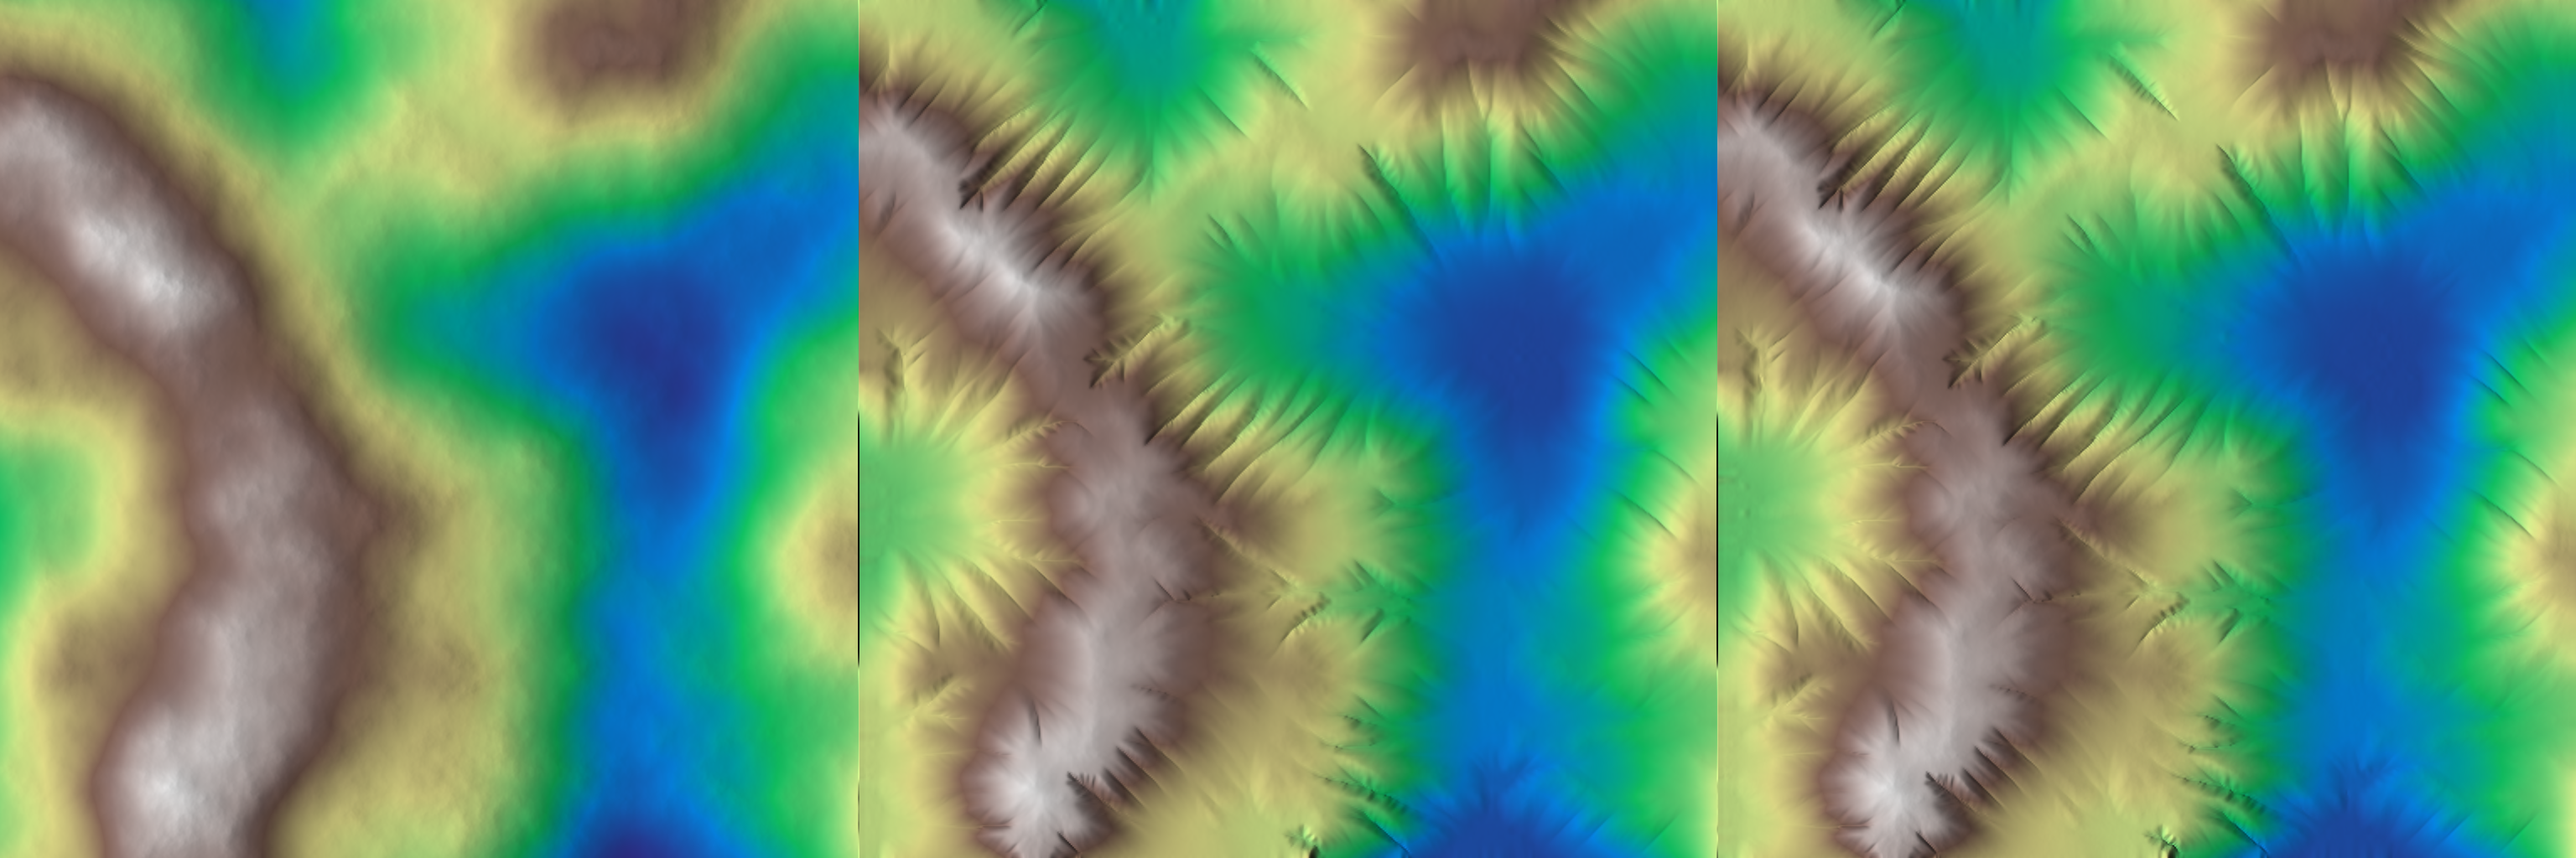
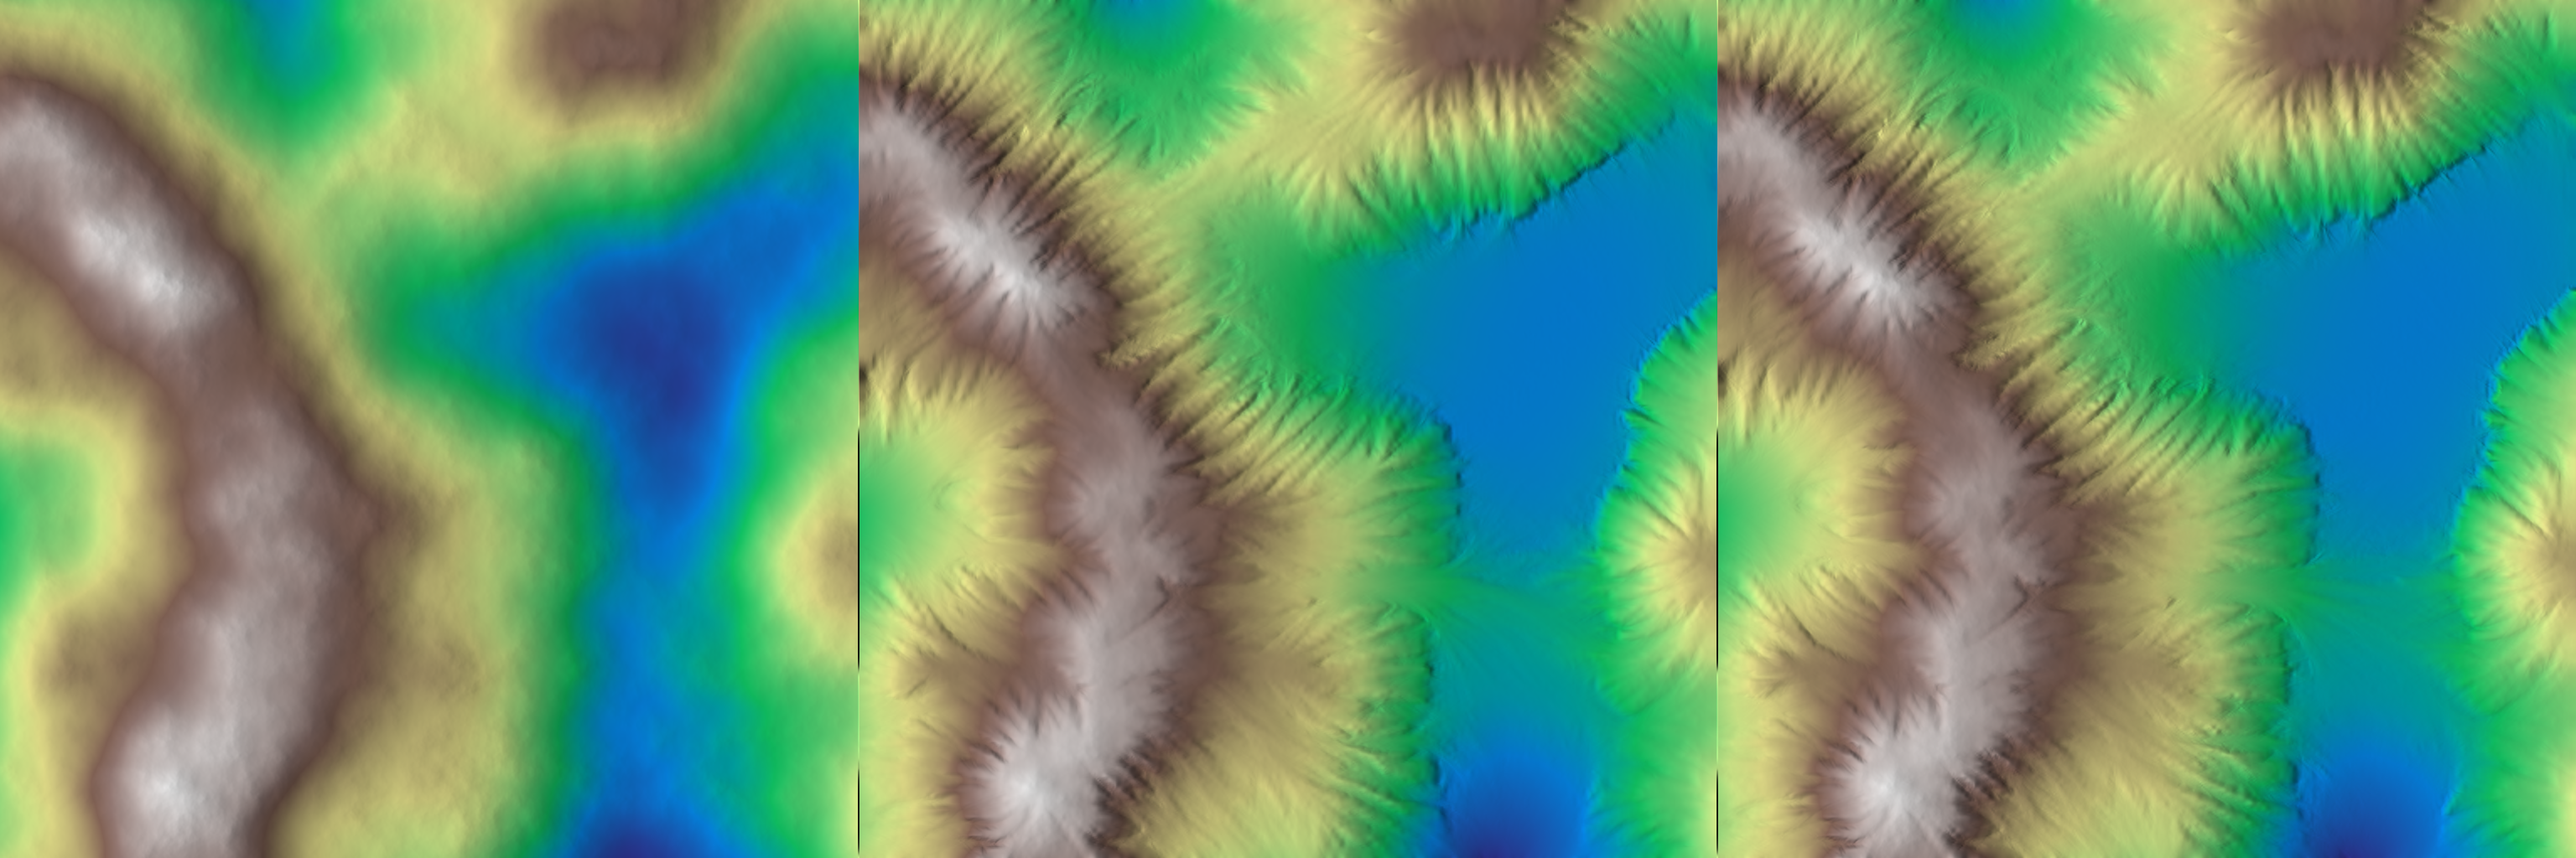
Update CLWrapper (remove block size)

diff --git a/examples/ex_downscale_transform_multi/ex_downscale_transform_multi.cpp b/examples/ex_downscale_transform_multi/ex_downscale_transform_multi.cpp
@@ -20,14 +20,9 @@ int main(void)
 
   auto lambda = [](hmap::Array &x, const int current_index)
   {
-    int iterations = (int)(60.f / (0.5f * current_index + 1));
-
-    hmap::hydraulic_schott(x,
-                           iterations, // iterations
-                           0.5f,       // 0.5 times deposition iterations
-                           0.3f,       // erosion
-                           0.5f        // deposition
-    );
+    int  nparticles = 5000;
+    uint seed = 0;
+    hmap::hydraulic_particle(x, nparticles, seed);
   };
 
   // apply the erosion to each array with different resolutions

diff --git a/examples/ex_downscale_transform/ex_downscale_transform.cpp b/examples/ex_downscale_transform/ex_downscale_transform.cpp
@@ -27,12 +27,9 @@ int main(void)
 
   auto lambda = [](hmap::Array &x)
   {
-    hmap::hydraulic_schott(x,
-                           60,   // iterations
-                           0.5f, // 0.5 times deposition iterations
-                           0.3f, // erosion
-                           0.5f  // deposition
-    );
+    int  nparticles = 5000;
+    uint seed = 0;
+    hmap::hydraulic_particle(x, nparticles, seed);
   };
 
   // apply the erosion to each array with different resolutions

diff --git a/tests/test_gpu_vs_cpu/main.cpp b/tests/test_gpu_vs_cpu/main.cpp
@@ -9,7 +9,6 @@
 #include "highmap/dbg/assert.hpp"
 #include "highmap/dbg/timer.hpp"
 
-const int block_size = 32;
 // const hmap::Vec2<int>   shape = {2048, 2048};
 // const hmap::Vec2<int>   shape = {1024, 1024};
 const hmap::Vec2<int>   shape = {256, 512};
@@ -70,8 +69,6 @@ int main(void)
 
 #ifdef ENABLE_OPENCL
   hmap::gpu::init_opencl();
-
-  clwrapper::KernelManager::get_instance().set_block_size(block_size);
 
   f.open("test_gpu_vs_cpu.csv", std::ios::out);
 

diff --git a/examples/ex_voronoise/ex_voronoise.cpp b/examples/ex_voronoise/ex_voronoise.cpp
@@ -9,8 +9,6 @@ int main(void)
   hmap::Vec2<float> kw = {4.f, 4.f};
   int               seed = 1;
 
-  clwrapper::KernelManager::get_instance().set_block_size(32);
-
   hmap::Array z00 = hmap::gpu::voronoise(shape, kw, 0.f, 0.f, seed);
   hmap::Array z10 = hmap::gpu::voronoise(shape, kw, 1.f, 0.f, seed);
   hmap::Array z01 = hmap::gpu::voronoise(shape, kw, 0.f, 1.f, seed);

diff --git a/examples/ex_voronoi_edge_distance/ex_voronoi_edge_distance.cpp b/examples/ex_voronoi_edge_distance/ex_voronoi_edge_distance.cpp
@@ -9,8 +9,6 @@ int main(void)
   hmap::Vec2<float> kw = {4.f, 4.f};
   int               seed = 1;
 
-  clwrapper::KernelManager::get_instance().set_block_size(32);
-
   hmap::Array z1 = hmap::gpu::voronoi_edge_distance(shape, kw, seed);
 
   hmap::Array noise = 0.1f * hmap::noise_fbm(hmap::NoiseType::PERLIN,

diff --git a/examples/ex_voronoi/ex_voronoi.cpp b/examples/ex_voronoi/ex_voronoi.cpp
@@ -10,8 +10,6 @@ int main(void)
   hmap::Vec2<float> kw = {8.f, 8.f};
   int               seed = 1;
 
-  clwrapper::KernelManager::get_instance().set_block_size(32);
-
   hmap::Vec2<float> jitter = {1.f, 1.f};
 
   std::vector<hmap::VoronoiReturnType> types = {

diff --git a/examples/ex_gavoronoise/ex_gavoronoise.cpp b/examples/ex_gavoronoise/ex_gavoronoise.cpp
@@ -9,8 +9,6 @@ int main(void)
   hmap::Vec2<float> kw = {2.f, 2.f};
   int               seed = 1;
 
-  clwrapper::KernelManager::get_instance().set_block_size(32);
-
   // --- base usage
 
   hmap::Array z1 = hmap::gpu::gavoronoise(shape, kw, seed);

diff --git a/examples/ex_gabor_wave/ex_gabor_wave.cpp b/examples/ex_gabor_wave/ex_gabor_wave.cpp
@@ -9,8 +9,6 @@ int main(void)
   hmap::Vec2<float> kw = {2.f, 2.f};
   int               seed = 1;
 
-  clwrapper::KernelManager::get_instance().set_block_size(32);
-
   // --- base
 
   hmap::Array z = hmap::gpu::gabor_wave(shape, kw, seed);
